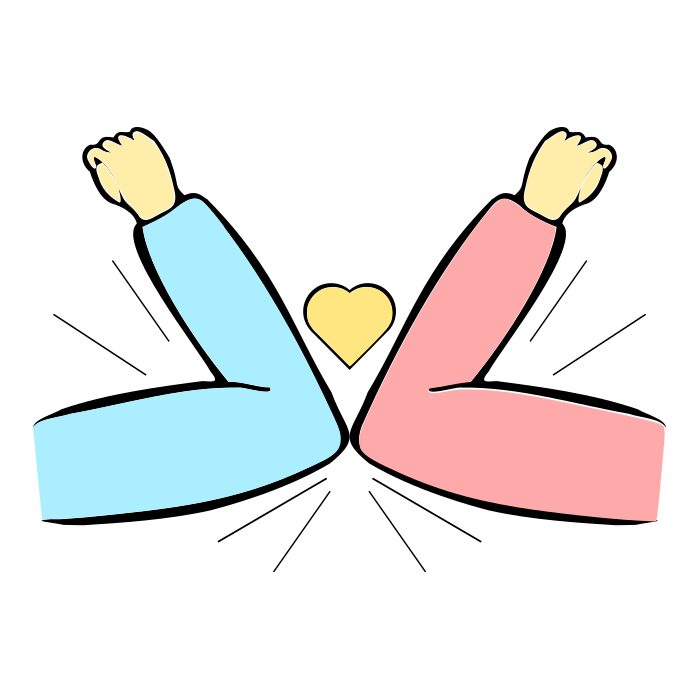
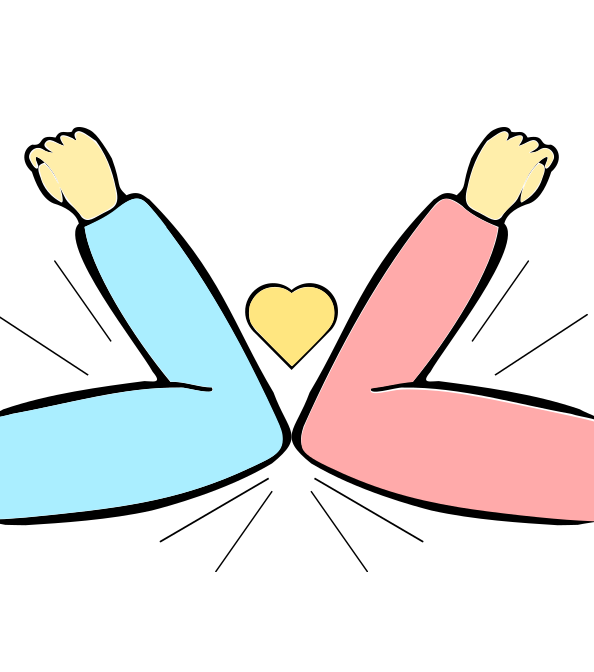
New landing page

diff --git a/src/pages/HomePage.vue b/src/pages/HomePage.vue
@@ -4,133 +4,112 @@
   </div>
   <div id="frame">
     <div id="top-right">
-      <div id = "poster">
+      <div >
         <img src="../assets/elbows-w-lines.png" id="elb-poster" />
       </div>
     </div>
     <div id="top-left">
-      <h1 style = "color: #ffe38f">Welcome to</h1>
-      <h1 style = "color: #a9edfe">Elbow</h1>
-      <h1 style = "color: #ffaaaa">Bumps!</h1>
+      <h1 style = "color: #ffe38f">WELCOME TO</h1>
+      <h1 style = "color: #a9edfe">ELBOW <span style = "color: #ffaaaa">BUMPS</span></h1>
+      <!-- <h1 style = "color: #ffaaaa">BUMPS</h1> -->
     </div>
     <div id="bottom-left">
       <p></p>
-      <p style =" color: #444444">Elbow Bumps is a website that will recommend friends with similar interests to you!</p>
-      <p style =" color: #444444">Register above to get started</p>
-      <div id="button2"><Button id="button" @click="this.$root.route_to('/login');">Get Started!</Button></div>
+      <p >Is lockdown loneliness bogging you down? Do you want to find other people who are passionate in the same things you are? Elbow Bumps provides a new, innovative way for you to do just that! <br> <br>Simply register, fill in a questionnaire and give us your Twitter, and we'll find you people who love the very same things you love.</p>
+      <div id="button2"><Button id="button" @click="$router.push('Register')">GET STARTED</Button></div>
     </div>
-    <div id="bottom-right">
+    <!-- <div id="bottom-right">
       <img src="../assets/pic.png" id="pic"/>
-    </div>
-  </div>
-</template>
+    </div> -->
+  </div> 
+</template> 
 
 <script>
 export default {};
 </script>
 
 <style lang="scss" scoped>
+
+@import url('https://fonts.googleapis.com/css2?family=Montserrat:wght@800&display=swap');
+@import url('https://fonts.googleapis.com/css2?family=Lato&family=Open+Sans&display=swap');
 $primitive-color: #a9edfe;
 $secondary-color: #ffaaaa;
-$background-color: #fffaba;
+$background-color: 	#80929F;
+//$background-color: #E95B46;
+//$background-color: 	#DB744E;
+//$background-color: #ffffff;
+//$background-color: #fffaba;
 
 #frame {
   position: absolute;
   height: 100%;
   width: 100%;
-  margin-top: 4%;
-  background: #ffffff;
+  background: $background-color;
 }
 
 #top-right {
   position: absolute;
-  height: 50%;
+  margin-left:2%;
+  margin-right:6%;
+  height: 100%;
   right: 0px;
-  width: 50%;
-  margin-right: 4%;
+  width: 42%;
   background: $background-color;
 }
 
-
-#poster {
-  position: absolute;
-  //display: block;
-  z-index: 0;
-  margin-left: 40%;
-  margin-top: 10%;
-  border-radius: 50%;
-}
 
 #elb-poster {
-  display: flex;
-  object-fit: contain;
-  height: 10rem;
-  width: 10rem;
-  margin-left: 36%;
-  margin-top: 32%;
-  z-index: 1;
-  border-radius: 50%;
-  background: $background-color;
+  display: block;
+  height: auto;
+  width: 100%;
+  max-height: 100%;
 }
 
+
 #top-left {
+  padding: 1%;
+  border: 1%;
   position: absolute;
+  margin-left:2%;
+  margin-top: 5%;
+  margin-bottom:7.5%;
   height: 50%;
   left: 0px;
   width: 50%;
-  font-size: 50px;
-  text-align: center;
-  font-family: IBM Plex Sans;
-  line-height: 35px;
-  background: #ffffff;
+  font-size: 3.75vw;
+  text-align: right;
+  font-family: 'Montserrat', sans-serif;
+  line-height: 2.2vw;
 }
 
 #bottom-left {
+  padding: 1%;
+  border: 1%;
   position: absolute;
-  margin-top: 25%;
-  margin-left:2%;
+  margin-top: 20%;
+  margin-left:3%;
   height: 50%;
   left: 0px;
-  width: 45%;
-  font-size: 30px;
-  font-family: IBM Plex Sans;
-  line-height: 35px;
-  background: #ffffff;
+  width: 48.5%;
+  font-size: 1.5vw;
+  text-align: right;
+  font-family: 'Lato', sans-serif;
+  //line-height: 3.75vw;
+  color: #ffffff;
 }
 
 #button {
-    //font-weight: bold;
+    font-weight: bold;
     width: 30%;
     height: 5%;
-    display: flex;
-    flex-direction: row;
-    align-items: center;
     text-align: center;
     color: #ffffff;
-    font-family: IBM Plex Sans;
+    font-family: 'Lato', sans-serif;
     font-size: 35px;
     justify-content: center;
     background: $secondary-color;
     border: none;
 }
 
-#bottom-right {
-  position: absolute;
-  margin-top: 22.5%;
-  margin-right: 2%;
-  height: 50%;
-  right: 0px;
-  width: 50%;
-  background: $primitive-color;
-}
-
-#pic {
-  display: flex;
-  object-fit: contain;
-  height: 100%;
-  width: 100%;
-  z-index: 1;
-  background: $primitive-color;
-}
 </style>
 
